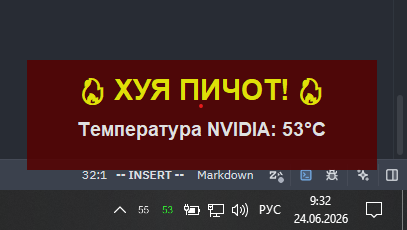
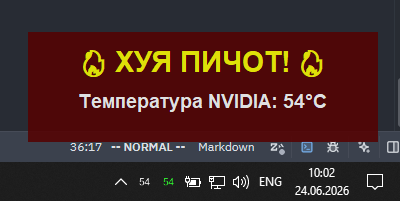
up readme

diff --git a/README.md b/README.md
@@ -1,5 +1,6 @@
 # Huya Pichot 
 
+
 Простой мониторинг и нотификация на всех мониторах если любая температура стала выше 75 градусов + иконки в трее которые показывают температуру:
 
 * CPU - белая (требует прав администратора)
@@ -29,7 +30,13 @@
 ## Почему это появилось
 
 Я играю в игры на телевизоре подключенным по hdmi к ноутбуку, и однажды я не заметил того что у ноута отключилась охлаждающая подставка. Ноутбук был прям огненным.
+
+Данную ситуация отлично иллюстрирует мем:
+
+![Мем](./meme.png)
+
 И у меня появилось желание иметь какое то оповещение чтобы во время игры предупреждало о перегреве.
+
 
 ## Похожие проекты
 